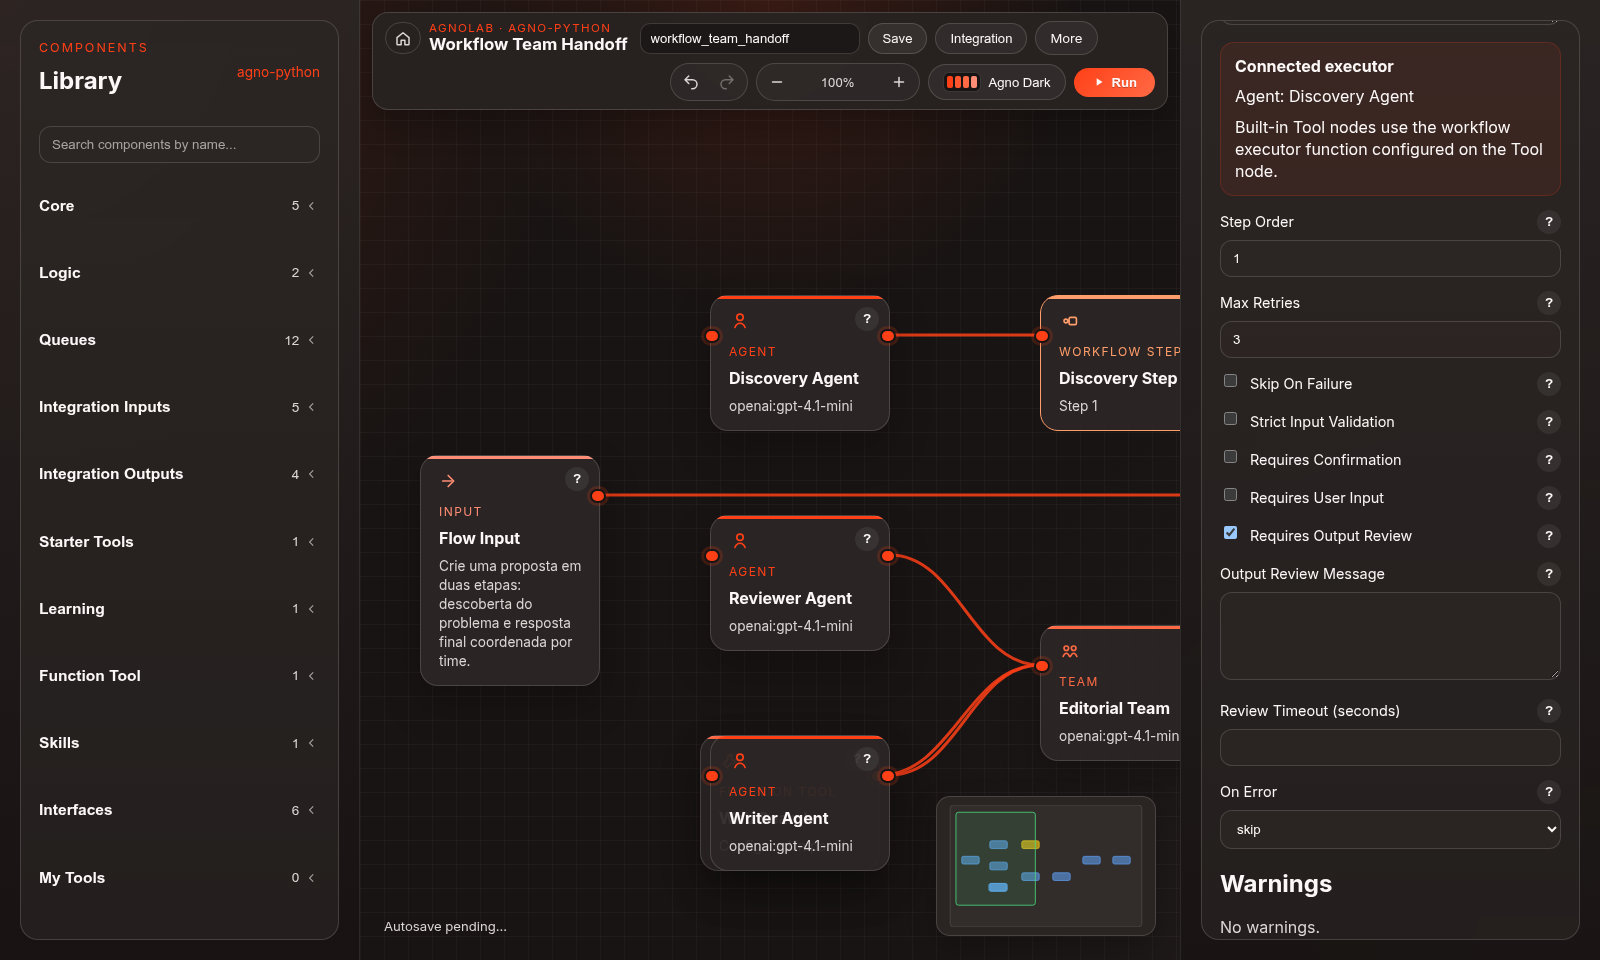
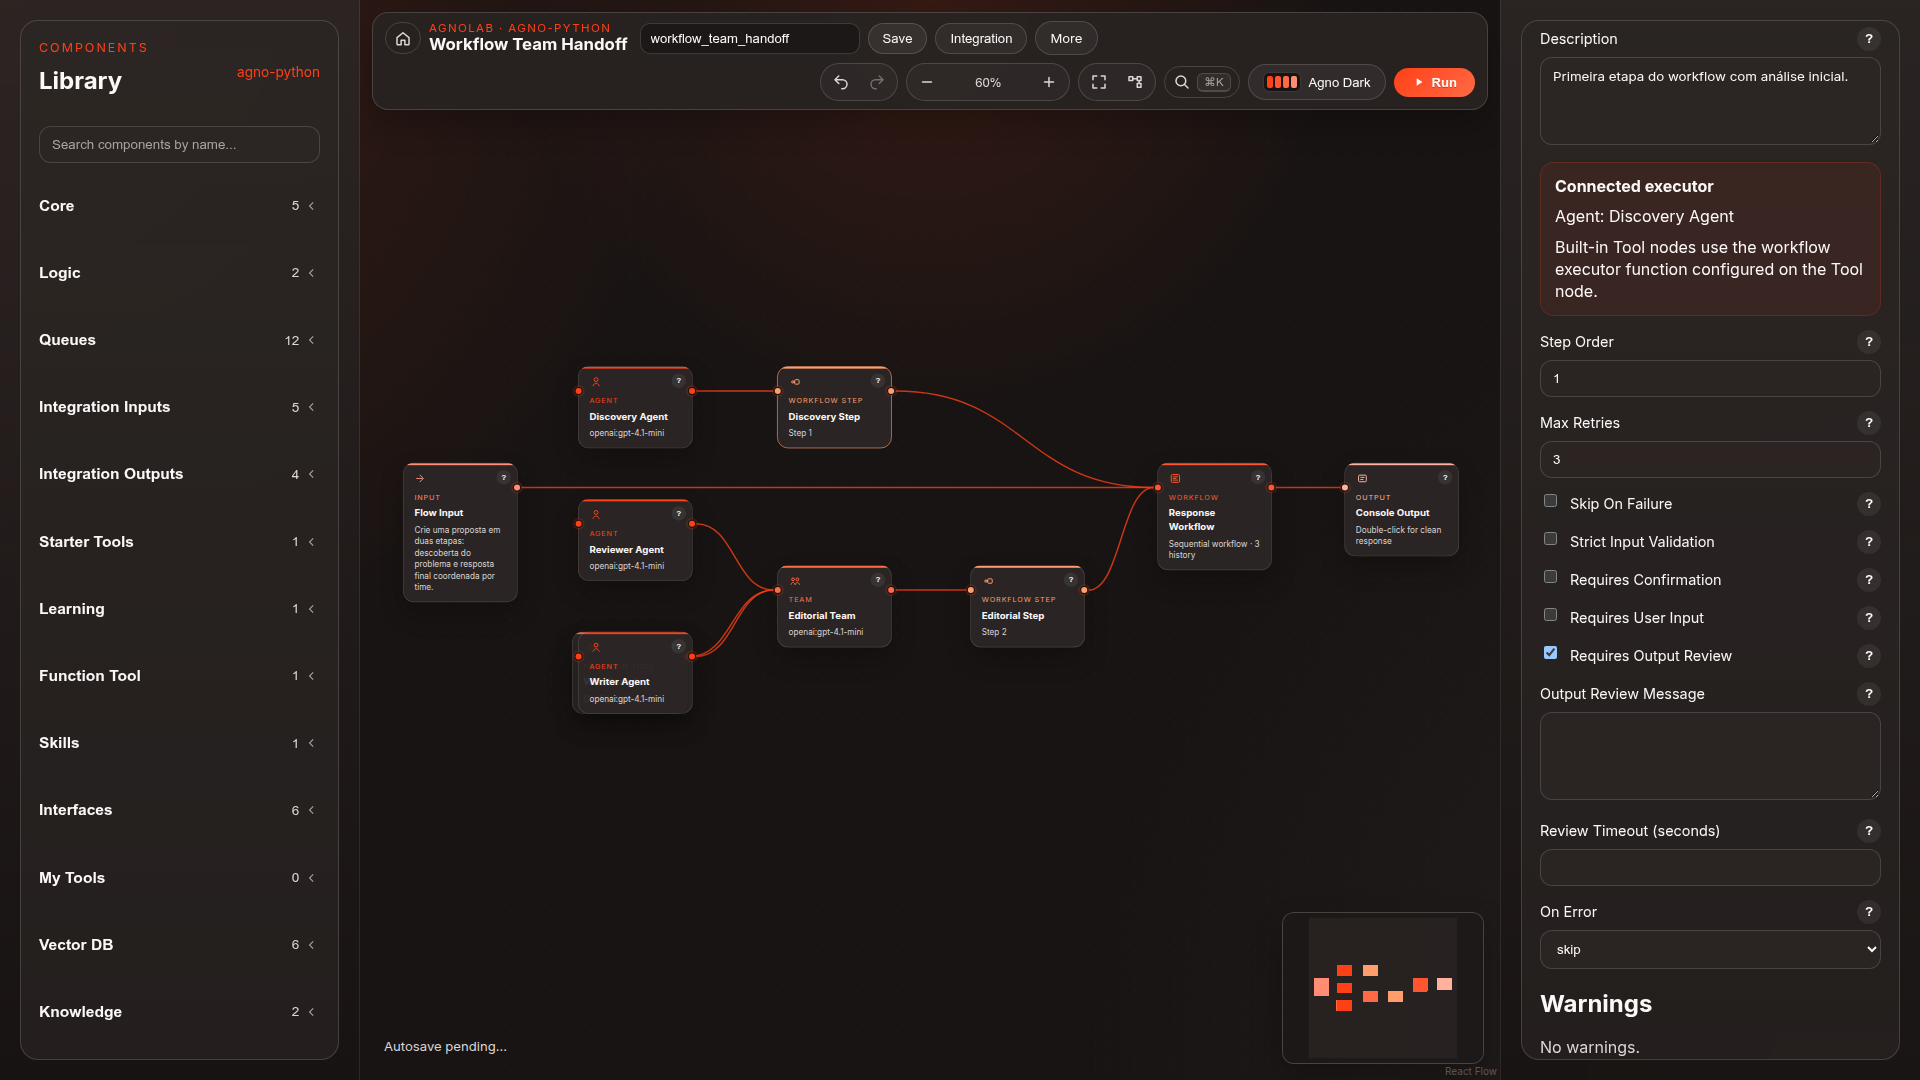
docs: README for the React Flow canvas, shortcuts and command palette
Also tighten fit-view padding so wide flows open at a readable zoom.

diff --git a/apps/web/src/FlowCanvas.tsx b/apps/web/src/FlowCanvas.tsx
@@ -321,7 +321,7 @@ const FlowCanvasInner = forwardRef<FlowCanvasHandle, FlowCanvasProps>(function F
       zoomIn: () => void flow.zoomIn({ duration: 160 }),
       zoomOut: () => void flow.zoomOut({ duration: 160 }),
       resetZoom: () => void flow.zoomTo(1, { duration: 160 }),
-      fitView: () => void flow.fitView({ padding: 0.2, duration: 220, maxZoom: 1.2 }),
+      fitView: () => void flow.fitView({ padding: 0.08, duration: 220, maxZoom: 1.2 }),
       getNodeSize: (nodeId: string) => {
         const measured = flow.getNode(nodeId)?.measured;
         return measured?.width && measured?.height ? { width: measured.width, height: measured.height } : undefined;
@@ -361,7 +361,7 @@ const FlowCanvasInner = forwardRef<FlowCanvasHandle, FlowCanvasProps>(function F
         snapToGrid
         snapGrid={[10, 10]}
         fitView
-        fitViewOptions={{ padding: 0.2, maxZoom: 1.1 }}
+        fitViewOptions={{ padding: 0.08, maxZoom: 1.1 }}
         defaultEdgeOptions={{ type: "default" }}
         proOptions={{ hideAttribution: false }}
       >

diff --git a/README.md b/README.md
@@ -14,8 +14,9 @@ Built on **Agno 3.2.1**.
 
 ## Highlights
 
-- **Visual canvas.** Searchable node library, validated connections, minimap, undo/redo, zoom,
-  autosave, and live run badges on every node.
+- **Visual canvas.** Built on React Flow: drag nodes in from the library, drag from a port to
+  connect, multi-select, copy/paste, auto-layout, minimap, and live run badges on every node.
+- **Command palette.** `Ctrl/Cmd+K` to run any action or add any node or tool by name.
 - **Agents, Teams, and Workflows.** Compile to real Agno objects, including sequential
   workflows with human-in-the-loop review steps.
 - **Code you can read.** Preview the generated Python before running, in an editor that
@@ -63,19 +64,50 @@ connections, minimap, and the code editor. Each node type gets its own accent co
 </p>
 
 The canvas now has a single toolbar: flow name, Save, Integration, an export menu,
-undo/redo, zoom, theme, and an always-visible **Run** button.
+undo/redo, zoom, fit, auto-layout, command palette, theme, and an always-visible **Run** button.
+
+### A faster canvas
+
+The canvas moved to [React Flow](https://reactflow.dev):
+
+- **Drag to connect.** Drag from a node's right port to another node's left port. Valid
+  targets light up and invalid ones fade, so you only make connections Agno accepts.
+  Clicking one port and then the other still works.
+- **Drag from the library.** Drop any component where you want it; added nodes otherwise
+  appear in the middle of the visible area.
+- **Work with many nodes at once.** Shift+drag to box-select, Ctrl/Cmd+click to add to the
+  selection, then move, copy, paste, duplicate, or delete them together.
+- **Auto-layout** arranges the flow left to right by data flow, and **Fit** frames it.
+
+![Connecting two nodes](docs/screenshots/connect.png)
+
+![Command palette](docs/screenshots/command-palette.png)
+
+### Keyboard shortcuts
+
+| Shortcut | Action |
+| --- | --- |
+| `Ctrl/Cmd+K` | Command palette |
+| `Ctrl/Cmd+Z` / `Ctrl/Cmd+Y` | Undo / redo |
+| `Ctrl/Cmd+C` / `Ctrl/Cmd+V` | Copy / paste nodes (with the connections between them) |
+| `Ctrl/Cmd+D` | Duplicate selection |
+| `Ctrl/Cmd+A` | Select all nodes |
+| `Delete` / `Backspace` | Delete the selected nodes or connection |
+| `Shift+1` | Fit flow to view |
+| `Shift+L` | Auto-layout |
+| `Esc` | Clear the selection |
 
 ## Main Features
 
 ### Visual Canvas
 
 - Add nodes from a searchable library grouped by category (Core, Logic, Queues,
-  Integrations, Interfaces, Tools, Skills, Learning).
-- Connect nodes; the node model validates which connections are allowed.
-- See execution badges and run state directly on the canvas.
+  Integrations, Interfaces, Tools, Skills, Learning), by click or drag and drop.
+- Connect nodes by dragging between ports; the node model validates every connection.
+- See execution badges and run state on the canvas; connections from running nodes animate.
 - Double-click an Input node to open the chat runner, or an Output node to show only the
   agent's response.
-- Undo/redo (Ctrl/Cmd+Z, Ctrl/Cmd+Y), zoom, pan, and a clickable minimap.
+- Zoom with the scroll wheel, pan by dragging the background, and navigate with the minimap.
 - Keyboard focus is visible on every control.
 
 ### Templates
@@ -128,7 +160,9 @@ review, and WhatsApp interface.
 - `apps/api/app/exporter.py`: export bundle generation.
 - `apps/api/app/flow_store.py`: saved-flow persistence.
 - `apps/web`: React canvas, properties panel, run console, code preview, and library panels.
-- `apps/web/src/App.tsx`: main canvas experience and panel logic.
+- `apps/web/src/App.tsx`: main editor experience and panel logic.
+- `apps/web/src/FlowCanvas.tsx`: the React Flow canvas (nodes, ports, edges, minimap, drop).
+- `apps/web/src/CommandPalette.tsx`: the `Ctrl/Cmd+K` command palette.
 - `apps/web/src/providerCatalog.ts`: frontend provider catalog and presets.
 - `apps/web/src/agentConfig.ts`: agent properties definition.
 - `apps/web/src/nodeCatalog.ts`: node templates and defaults.
@@ -142,7 +176,7 @@ review, and WhatsApp interface.
 ## Requirements
 
 - Python 3.11+
-- Node.js 18+
+- Node.js 18+ (run the frontend unit tests with `npm test` in `apps/web`)
 - Agno 3.2.1 (installed by `requirements.txt` as `agno[os]`)
 - An OpenAI API key if you want to use the default OpenAI provider out of the box
 
